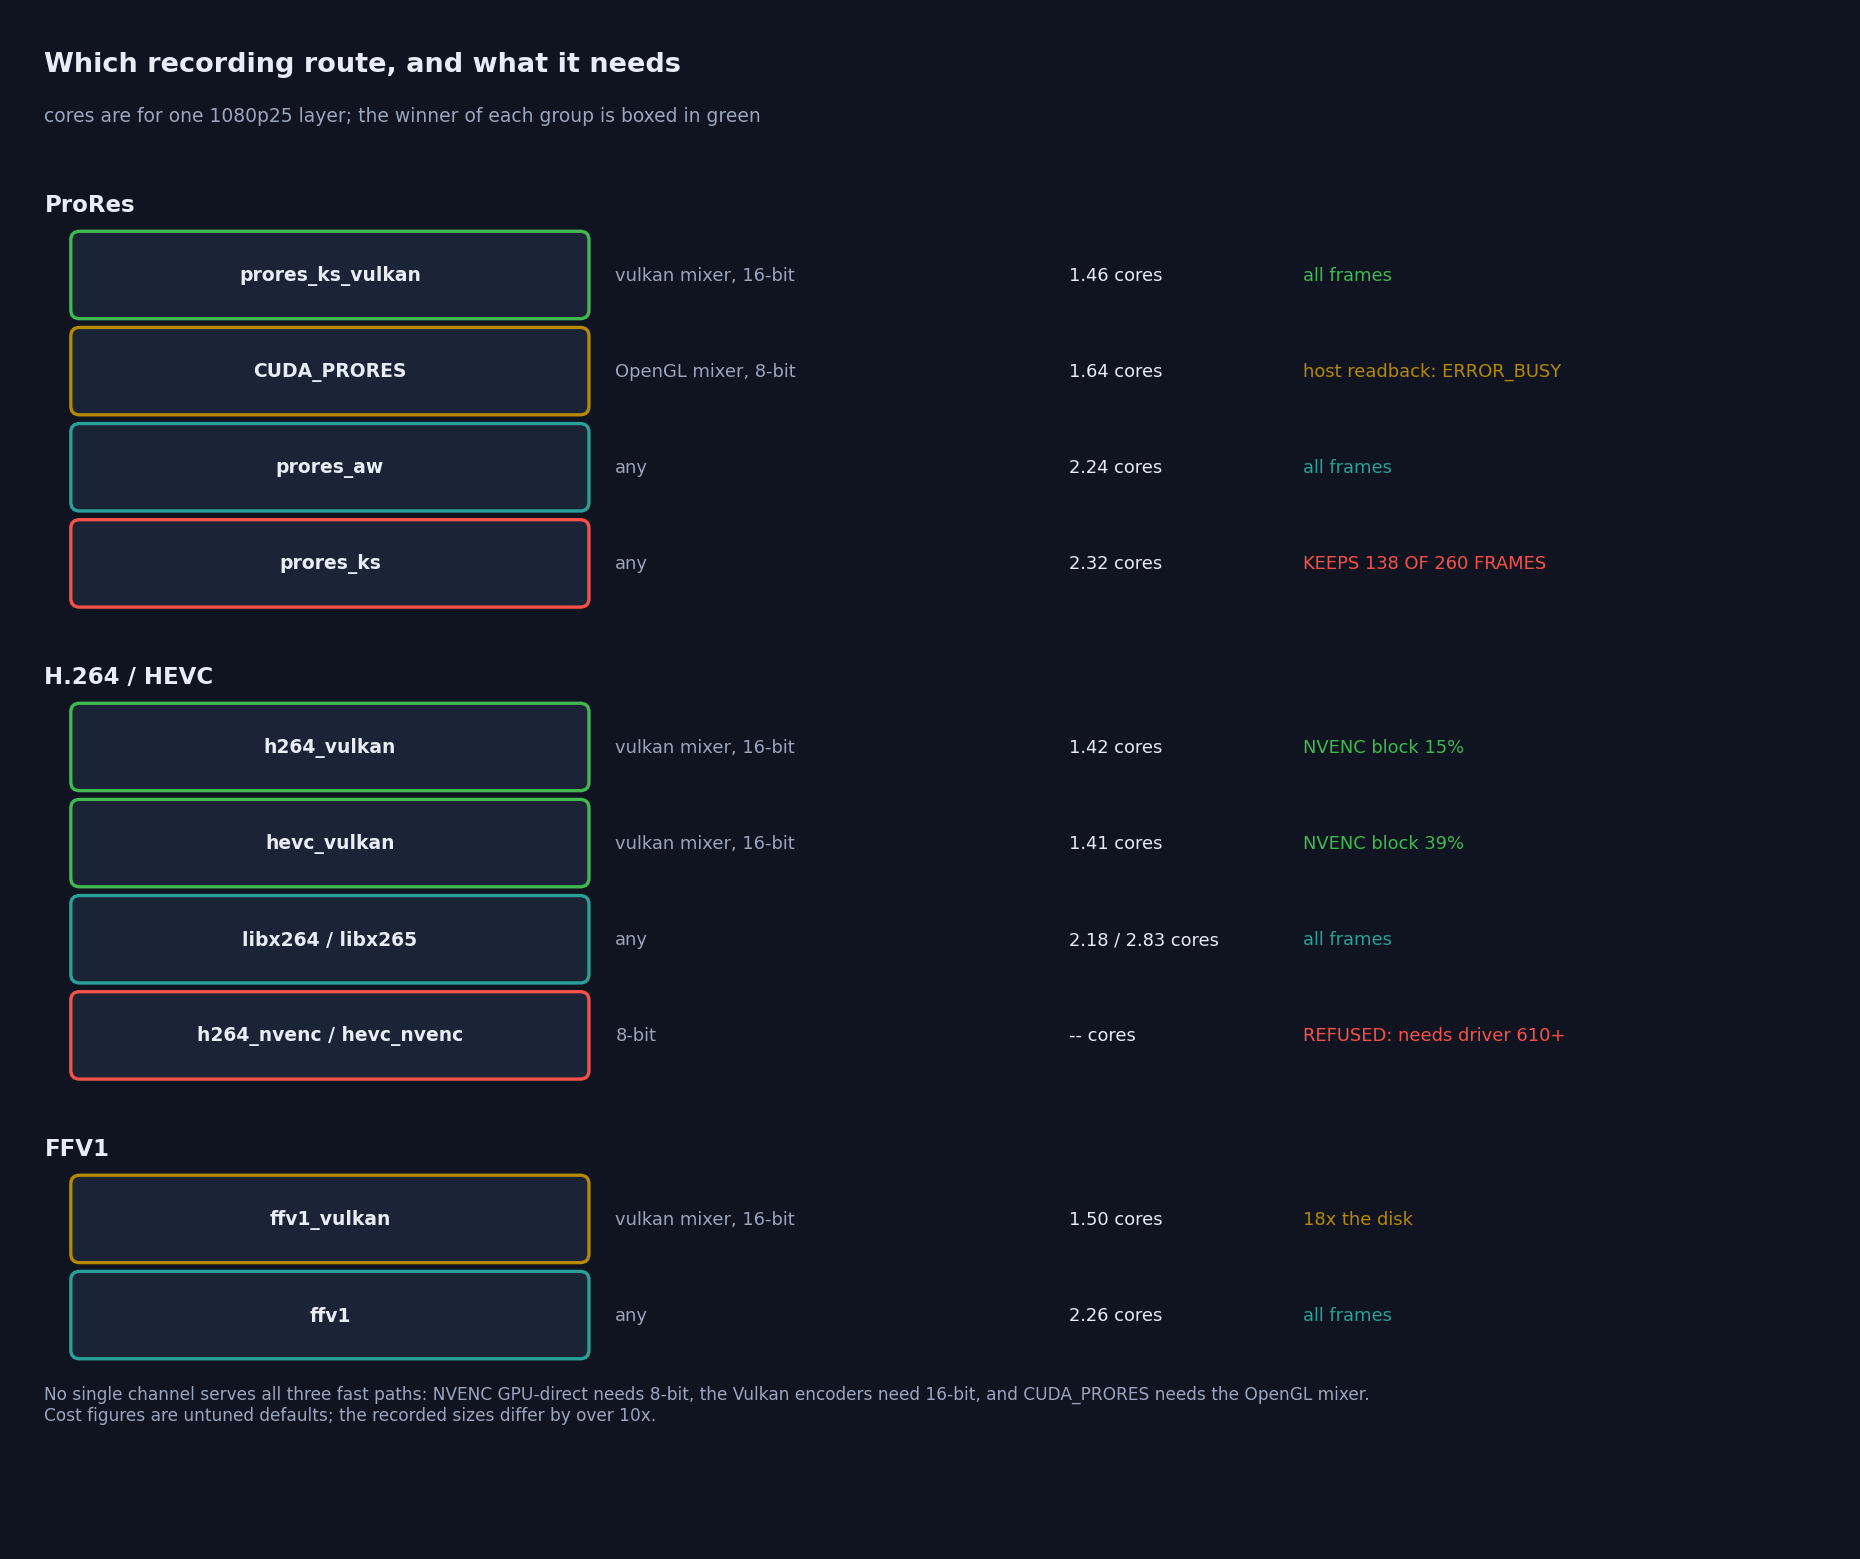
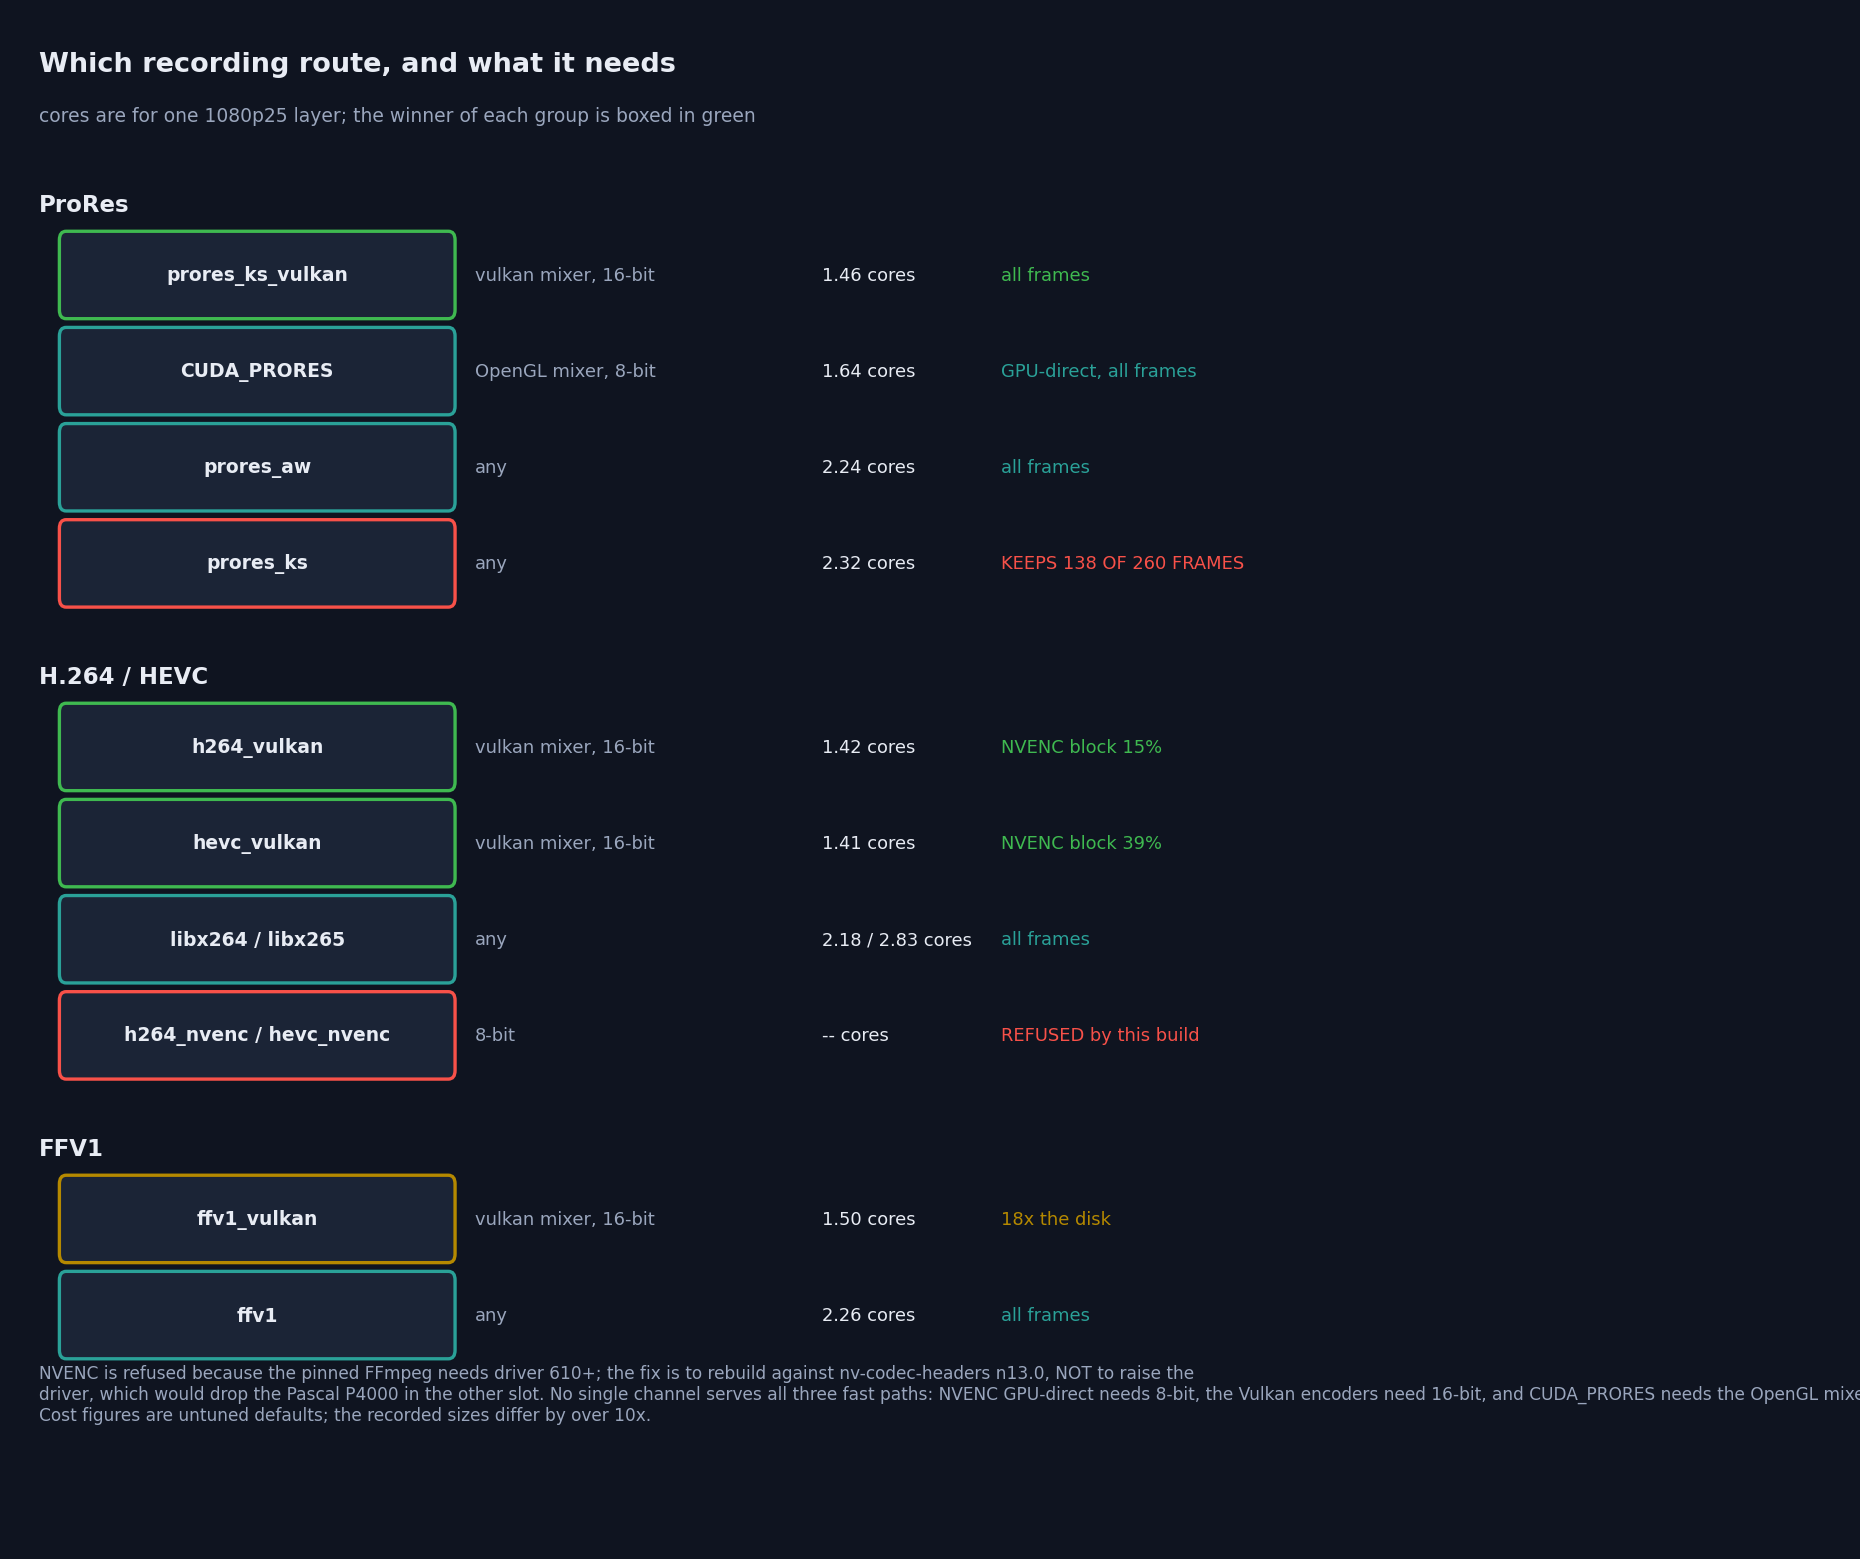
docs: CUDA_PRORES is fixed, and raising the driver is not the NVENC fix
Both docs recorded these as open, and one of them recommended the wrong remedy.

CUDA_PRORES's GPU-direct path now engages. Its entries in CHANGELOG.md and the
operation guide change from a warning to a description, and carry the second
defect that fixing it exposed: the mixer's OpenGL attachment is GL_RGBA8 with an
EXTERNAL format of GL_BGRA, so a raw device copy of the texture and a host
readback deliver opposite channel orders to the same kernel. Picture went from
mean 166.31 LSB to mean 0.89, which is identical to what the host path measures.
The CPU figure did not move (1.64 either way at 1080p25, inside noise) and the
docs say so rather than claiming a saving that is not there.

THE NVENC REMEDY WAS WRONG AND IS NOW CORRECTED. Both files offered "raise the
driver past 610 or pin older headers" as equal options. On this machine the first
one is not available: Release 580 is the LAST branch to support Quadro Maxwell,
Pascal and Volta; the reference box's second GPU is a Pascal Quadro P4000; and
582.53 is the R580 U9 Enterprise driver, so the machine is already on the newest
driver that serves both slots and one Windows package serves both. Raising it to
R610 for NVENC would take the P4000's driver with it.

So the remedy is the header pin: nv-codec-headers n13.0 needs driver 570+, n13.1
needs 610+, and pinning n13.0 keeps FFmpeg at 8.1.2 with working NVENC on
582.53. Sourced from NVIDIA's Quadro support-plan answer and the nv-codec-headers
[…]

diff --git a/docs/gen_pipeline_figures.py b/docs/gen_pipeline_figures.py
@@ -305,7 +305,7 @@ def fig_recording_routes():
     groups = [
         ("ProRes", [
             ("prores_ks_vulkan", "vulkan mixer, 16-bit", "1.46", "all frames", "best"),
-            ("CUDA_PRORES", "OpenGL mixer, 8-bit", "1.64", "host readback: ERROR_BUSY", "warn"),
+            ("CUDA_PRORES", "OpenGL mixer, 8-bit", "1.64", "GPU-direct, all frames", "ok"),
             ("prores_aw", "any", "2.24", "all frames", "ok"),
             ("prores_ks", "any", "2.32", "KEEPS 138 OF 260 FRAMES", "bad"),
         ]),
@@ -313,7 +313,7 @@ def fig_recording_routes():
             ("h264_vulkan", "vulkan mixer, 16-bit", "1.42", "NVENC block 15%", "best"),
             ("hevc_vulkan", "vulkan mixer, 16-bit", "1.41", "NVENC block 39%", "best"),
             ("libx264 / libx265", "any", "2.18 / 2.83", "all frames", "ok"),
-            ("h264_nvenc / hevc_nvenc", "8-bit", "--", "REFUSED: needs driver 610+", "bad"),
+            ("h264_nvenc / hevc_nvenc", "8-bit", "--", "REFUSED by this build", "bad"),
         ]),
         ("FFV1", [
             ("ffv1_vulkan", "vulkan mixer, 16-bit", "1.50", "18x the disk", "warn"),
@@ -348,7 +348,10 @@ def fig_recording_routes():
         y -= GAP
 
     ax.text(0.15, max(0.22, y + 0.10),
-            "No single channel serves all three fast paths: NVENC GPU-direct needs 8-bit, "
+            "NVENC is refused because the pinned FFmpeg needs driver 610+; the fix is to rebuild "
+            "against nv-codec-headers n13.0, NOT to raise the\n"
+            "driver, which would drop the Pascal P4000 in the other slot. No single channel serves "
+            "all three fast paths: NVENC GPU-direct needs 8-bit, "
             "the Vulkan encoders need 16-bit, and CUDA_PRORES needs the OpenGL mixer.\n"
             "Cost figures are untuned defaults; the recorded sizes differ by over 10x.",
             fontsize=8.2, color=C_MUTED)

diff --git a/CHANGELOG.md b/CHANGELOG.md
@@ -19,8 +19,15 @@ an NVIDIA driver of **610 or newer**. The reference machine runs **582.53**.
 **It is the build and not the driver, and that was established rather than assumed.** The same
 `ffmpeg.exe` shipped beside the server fails identically on a plain `lavfi` source, so the
 consumer is not implicated. A separately built FFmpeg 8.1.1 on the *same* machine and the *same*
-driver encodes `h264_nvenc` successfully. So the fix is either to raise the driver past 610 or to
-pin a build compiled against the 13.0 headers.
+driver encodes `h264_nvenc` successfully.
+
+**The fix is the header pin, not the driver, and on this machine the driver is not even an
+option.** [NVENCAPI 13.0 requires driver 570 or newer](https://github.com/FFmpeg/nv-codec-headers)
+and 13.1 requires 610, so pinning `nv-codec-headers` **n13.0** keeps FFmpeg at 8.1.2 and gives
+working NVENC on 582.53. Raising the driver instead would break the other card: Release 580 is
+the **last** branch to support Quadro Maxwell, Pascal and Volta, the reference machine's second
+GPU is a Pascal Quadro P4000, and 582.53 is the R580 U9 Enterprise driver — i.e. this box is
+already on the newest driver that serves both slots, and one Windows package serves both.
 
 **Scope is exactly NVENC.** NVDEC is unaffected — `-hwaccel cuda` and `h264_cuvid` both decode
 correctly in the bundled build — and so is everything that uses the CUDA driver API rather than
@@ -37,16 +44,16 @@ Found by `encode-matrix`, which exists because nothing had ever compared the rou
 Both NVENC arms first reported only "recorded nothing readable"; a column of zeroes hid a
 dependency pin, and the battery now prints what the server said.
 
-### Broken: `CUDA_PRORES` never takes its GPU-direct path on Windows
+### Fixed: `CUDA_PRORES` now takes its GPU-direct path — and it was wrong underneath
 
-The consumer creates a private OpenGL context and calls `wglShareLists` against the mixer's, on
-its own encode thread. That fails with **ERROR_BUSY (170)** and an *accelerated* pixel format,
-because `wglShareLists` refuses a context that is current on another thread and the mixer's
-context is current on its device thread permanently. The consumer logs one warning and spends
-the rest of its life on a host readback.
+The consumer created a private OpenGL context and called `wglShareLists` against the mixer's, on
+its own encode thread. That fails with **ERROR_BUSY (170)** — with an *accelerated* pixel format,
+so it was never a format problem — because `wglShareLists` refuses a context that is current on
+another thread and the mixer's is current on its device thread permanently. The path had
+therefore never once run, on any machine, and the only trace was one warning at startup.
 
-A private shared context can never work here, whatever pixel format it picks — and this tree
-already said so. `cuda_gl_upload.h` documents the rule and names this consumer as the exception:
+This tree already had the rule written down, and had named this consumer as the exception.
+`cuda_gl_upload.h`:
 
 > MUST be called on a thread that has the mixer's GL context current — CUDA's GL interop
 > registers against the calling thread's context. Call it through
@@ -54,13 +61,47 @@ already said so. `cuda_gl_upload.h` documents the rule and names this consumer a
 > private `wglShareLists` context is what the ProRes consumer does, and it is the pattern that
 > made OGL GPU affinity impossible to add.
 
-The NVENC uploader uses `dispatch_sync` and works. Not fixed here, because moving the map onto
-the mixer's device thread changes the consumer's threading and belongs in its own change. The
-diagnostic is improved so the failure names its cause rather than saying "failed".
+The map now runs on the mixer's own GL thread through `dispatch_sync`, and the private-context
+code is gone on both platforms — the Linux EGL variant may well have worked, but keeping one
+platform on that design keeps the hazard. Deferring the map to encode time is safe because the
+job holds the `const_frame`, which holds the texture: the attachment pool cannot recycle a
+texture that is still referenced.
 
-**It still beats every CPU ProRes route while doing this**, at 1.64 cores against 2.24–2.42, so
-its measured cost is a *lower bound* and the case for fixing it is a further saving rather than a
-rescue.
+`needs_cpu_frame_data()` is now a live switch rather than a declaration, which is the idiom
+`core/frame/frame.h` documents. Announcing GPU-direct up front would tell the channel to stop
+reading back before anything had proved it could work, and a later failure would then have no
+host pixels to fall back to — so the first success switches the readback off and any failure
+switches it back on.
+
+**Making the path reachable exposed a second defect, which is the part worth remembering.** The
+first run with it live came back at **mean 166.31 LSB** against the host path with only **5%** of
+the disagreement at a chroma edge — flat areas wrong everywhere, which is the signature of a
+channel exchange rather than of a resampling difference. The mixer's OpenGL attachment is
+`GL_RGBA8` with an **external** format of `GL_BGRA`, so GL swizzles on every host transfer:
+`cudaMemcpy2DFromArray` copies the bytes untouched, and the two routes hand opposite orders to
+the same conversion kernel. Fixed with one R/B exchange at the fill site rather than a byte-order
+flag, because three kernels read that buffer and a flag would have to be threaded through all of
+them.
+
+CLAUDE.md's own warning, earned again: a dead code path is not a correct one, and when you make
+one reachable you must measure it with **asymmetric** values. A grey ramp is invariant under this
+exchange and would have passed.
+
+Measured with `encode-matrix`, 1080p2500, two interleaved rounds, and reproduced:
+
+| | before | after |
+| :--- | :--- | :--- |
+| GPU-direct engaged | no | **yes** |
+| picture vs the CPU encoder | mean 166.31 LSB | **mean 0.89, worst 37, 0.42% over 3 LSB** |
+| server CPU | 1.64 cores | 1.61–1.64 cores |
+| GPU utilisation | 32% | 38% |
+
+The picture figure after the fix is *identical* to what the host path measures, which is what
+establishes the exchange is right. **The CPU saving is not the point and should not be claimed as
+one**: at 1080p25 with a single consumer it is inside run-to-run noise. What changed is that the
+composite no longer makes an 8 MB round trip through host memory every frame, which shows up as
+the readback's work moving onto the card. Whether that pays off is a 4K and multiple-consumer
+question, and neither is measured.
 
 ### Added: GPU recording through FFmpeg 8's Vulkan encoders — and ProRes/FFV1 without a readback
 

diff --git a/docs/CUDA_PRORES OPERATION_GUIDE.md b/docs/CUDA_PRORES OPERATION_GUIDE.md
@@ -12,20 +12,30 @@ The module provides two recording consumers **and** a GPU-accelerated ProRes pla
 
 All three share the same GPU encode/decode kernel pipeline (NVIDIA CUDA).  Consumers write `.mov` or `.mxf` files; the producer reads them back.
 
-> **The consumer's GPU-direct upload does not engage on Windows.** Measured 2026-08-22: it
-> creates a private OpenGL context and calls `wglShareLists` against the mixer's, which fails
-> with `ERROR_BUSY (170)` because the mixer's context is current on its own device thread and
-> `wglShareLists` refuses that. The log says
-> `[cuda_prores] wglShareLists failed (error 170, pixel format N accelerated) - CPU path`, and
-> the composite then reaches the encoder through **host memory**.
->
-> The *encode* is still on the GPU, so this is a slower fast path rather than a broken consumer:
-> it recorded all 260 frames of a ten-second 1080p25 test at 1.64 cores where `prores_ks` managed
-> 138 frames at 2.42. Treat that as a lower bound.
->
-> The fix is known and is not a pixel-format change: `cuda_gl_upload.h` documents that CUDA-GL
-> interop must run through `accelerator::ogl::device::dispatch_sync`, and names this consumer as
-> the one that does it the other way. See `CHANGELOG.md`.
+### The GPU-direct upload
+
+The consumer maps the mixer's composited texture straight into CUDA, so the picture never passes
+through host memory. Confirm it from the log:
+
+```
+[cuda_prores] GPU-direct path active (CUDA-GL interop on the mixer's own thread); the channel readback stops here
+output[1] No consumer needs CPU readback (1 consumers); mixer readback skipped.
+```
+
+**It requires the OpenGL mixer.** CUDA-GL interop needs an OpenGL texture; on a Vulkan channel
+the consumer falls back to a host readback, correctly and without complaint. There is no
+CUDA-Vulkan equivalent in this consumer — use `-vcodec prores_ks_vulkan` through the ffmpeg
+consumer on a Vulkan channel instead.
+
+The first frame always reads back: the consumer only stops the channel readback once a map has
+actually succeeded, and re-arms it if one ever fails, so a failure degrades to the host path
+rather than producing a frame with no pixels in it.
+
+> **Fixed 2026-08-22, and it had never worked before that.** The consumer used to create its own
+> OpenGL context and call `wglShareLists` against the mixer's, which fails with `ERROR_BUSY (170)`
+> because that call refuses a context current on another thread. Every recording before this went
+> through host memory. Fixing it also exposed a red/blue exchange on the GPU path that had never
+> been able to show itself. See `CHANGELOG.md` for both.
 
 ---
 

diff --git a/docs/PIPELINE_EFFICIENCY_GUIDE.md b/docs/PIPELINE_EFFICIENCY_GUIDE.md
@@ -497,7 +497,13 @@ what the current design avoids.
 > 582.53. Everything below about the NVENC path is correct about the design and currently
 > unreachable in practice. **Use `h264_vulkan` / `hevc_vulkan` instead** — they drive the same
 > NVENC silicon through Vulkan, measured at 15–39% NVENC-block utilisation. NVDEC *decoding* is
-> unaffected. See `CHANGELOG.md` for how this was established.
+> unaffected.
+>
+> **The fix is to rebuild FFmpeg, not to raise the driver.** Pinning `nv-codec-headers` n13.0
+> instead of n13.1 keeps FFmpeg at 8.1.2 and works on 582.53. Raising the driver to R610 would
+> take the second GPU with it: Release 580 is the last branch to support Quadro Pascal, the
+> reference machine's other card is a P4000, and 582.53 is already the newest driver that serves
+> both. See `CHANGELOG.md`.
 
 ### Every route to a recording, measured side by side
 
@@ -520,16 +526,18 @@ path exists only on the **OpenGL** mixer. No single channel satisfies all three.
 | `prores_aw` | vulkan / 16 | host | 2.24 | 924 | 0 | 260 | 22.4 | mean 0.17 LSB |
 | **`prores_ks_vulkan`** | vulkan / 16 | **yes** | **1.46** | 1493 | 0 | 258 | 50.9 | mean 2.55 LSB |
 | `prores_ks` | ogl / 8 | host | 2.42 | 1410 | **116** | **140** | 14.8 | reference |
-| `CUDA_PRORES` | ogl / 8 | **no — see below** | 1.64 | 923 | 0 | 260 | 55.3 | mean 0.89 LSB |
+| `CUDA_PRORES` | ogl / 8 | **yes** | 1.64 | 914 | 0 | 260 | 55.4 | mean 0.89 LSB |
 
 **`prores_ks` cannot sustain 1080p25 and `prores_aw` can.** The `ks` encoder kept 138 of 260
 frames on both mixers; `aw` kept all of them for slightly less CPU. If you are recording ProRes
 on the host, `prores_aw` is the one to ask for — and this corrects an earlier claim in this
 repository that "the CPU ProRes encoder" does not keep up. It is specifically `prores_ks`.
 
-**`CUDA_PRORES` is on a host readback**, because its `wglShareLists` GPU-direct route fails with
-ERROR_BUSY (see `CHANGELOG.md`). It still costs less than every CPU route, so 1.64 cores is a
-lower bound.
+**`CUDA_PRORES` needs the OpenGL mixer** — CUDA-GL interop has no Vulkan equivalent here, and on
+a Vulkan channel it falls back to a host readback. Its GPU-direct route was fixed on 2026-08-22
+and had never engaged before that; the CPU figure did not move when it was fixed (1.64 either
+way, inside noise at this raster), but the composite no longer makes a host round trip. On a
+Vulkan channel use `prores_ks_vulkan` instead.
 
 #### H.264 and HEVC — the Vulkan encoders reach the NVENC block
 
